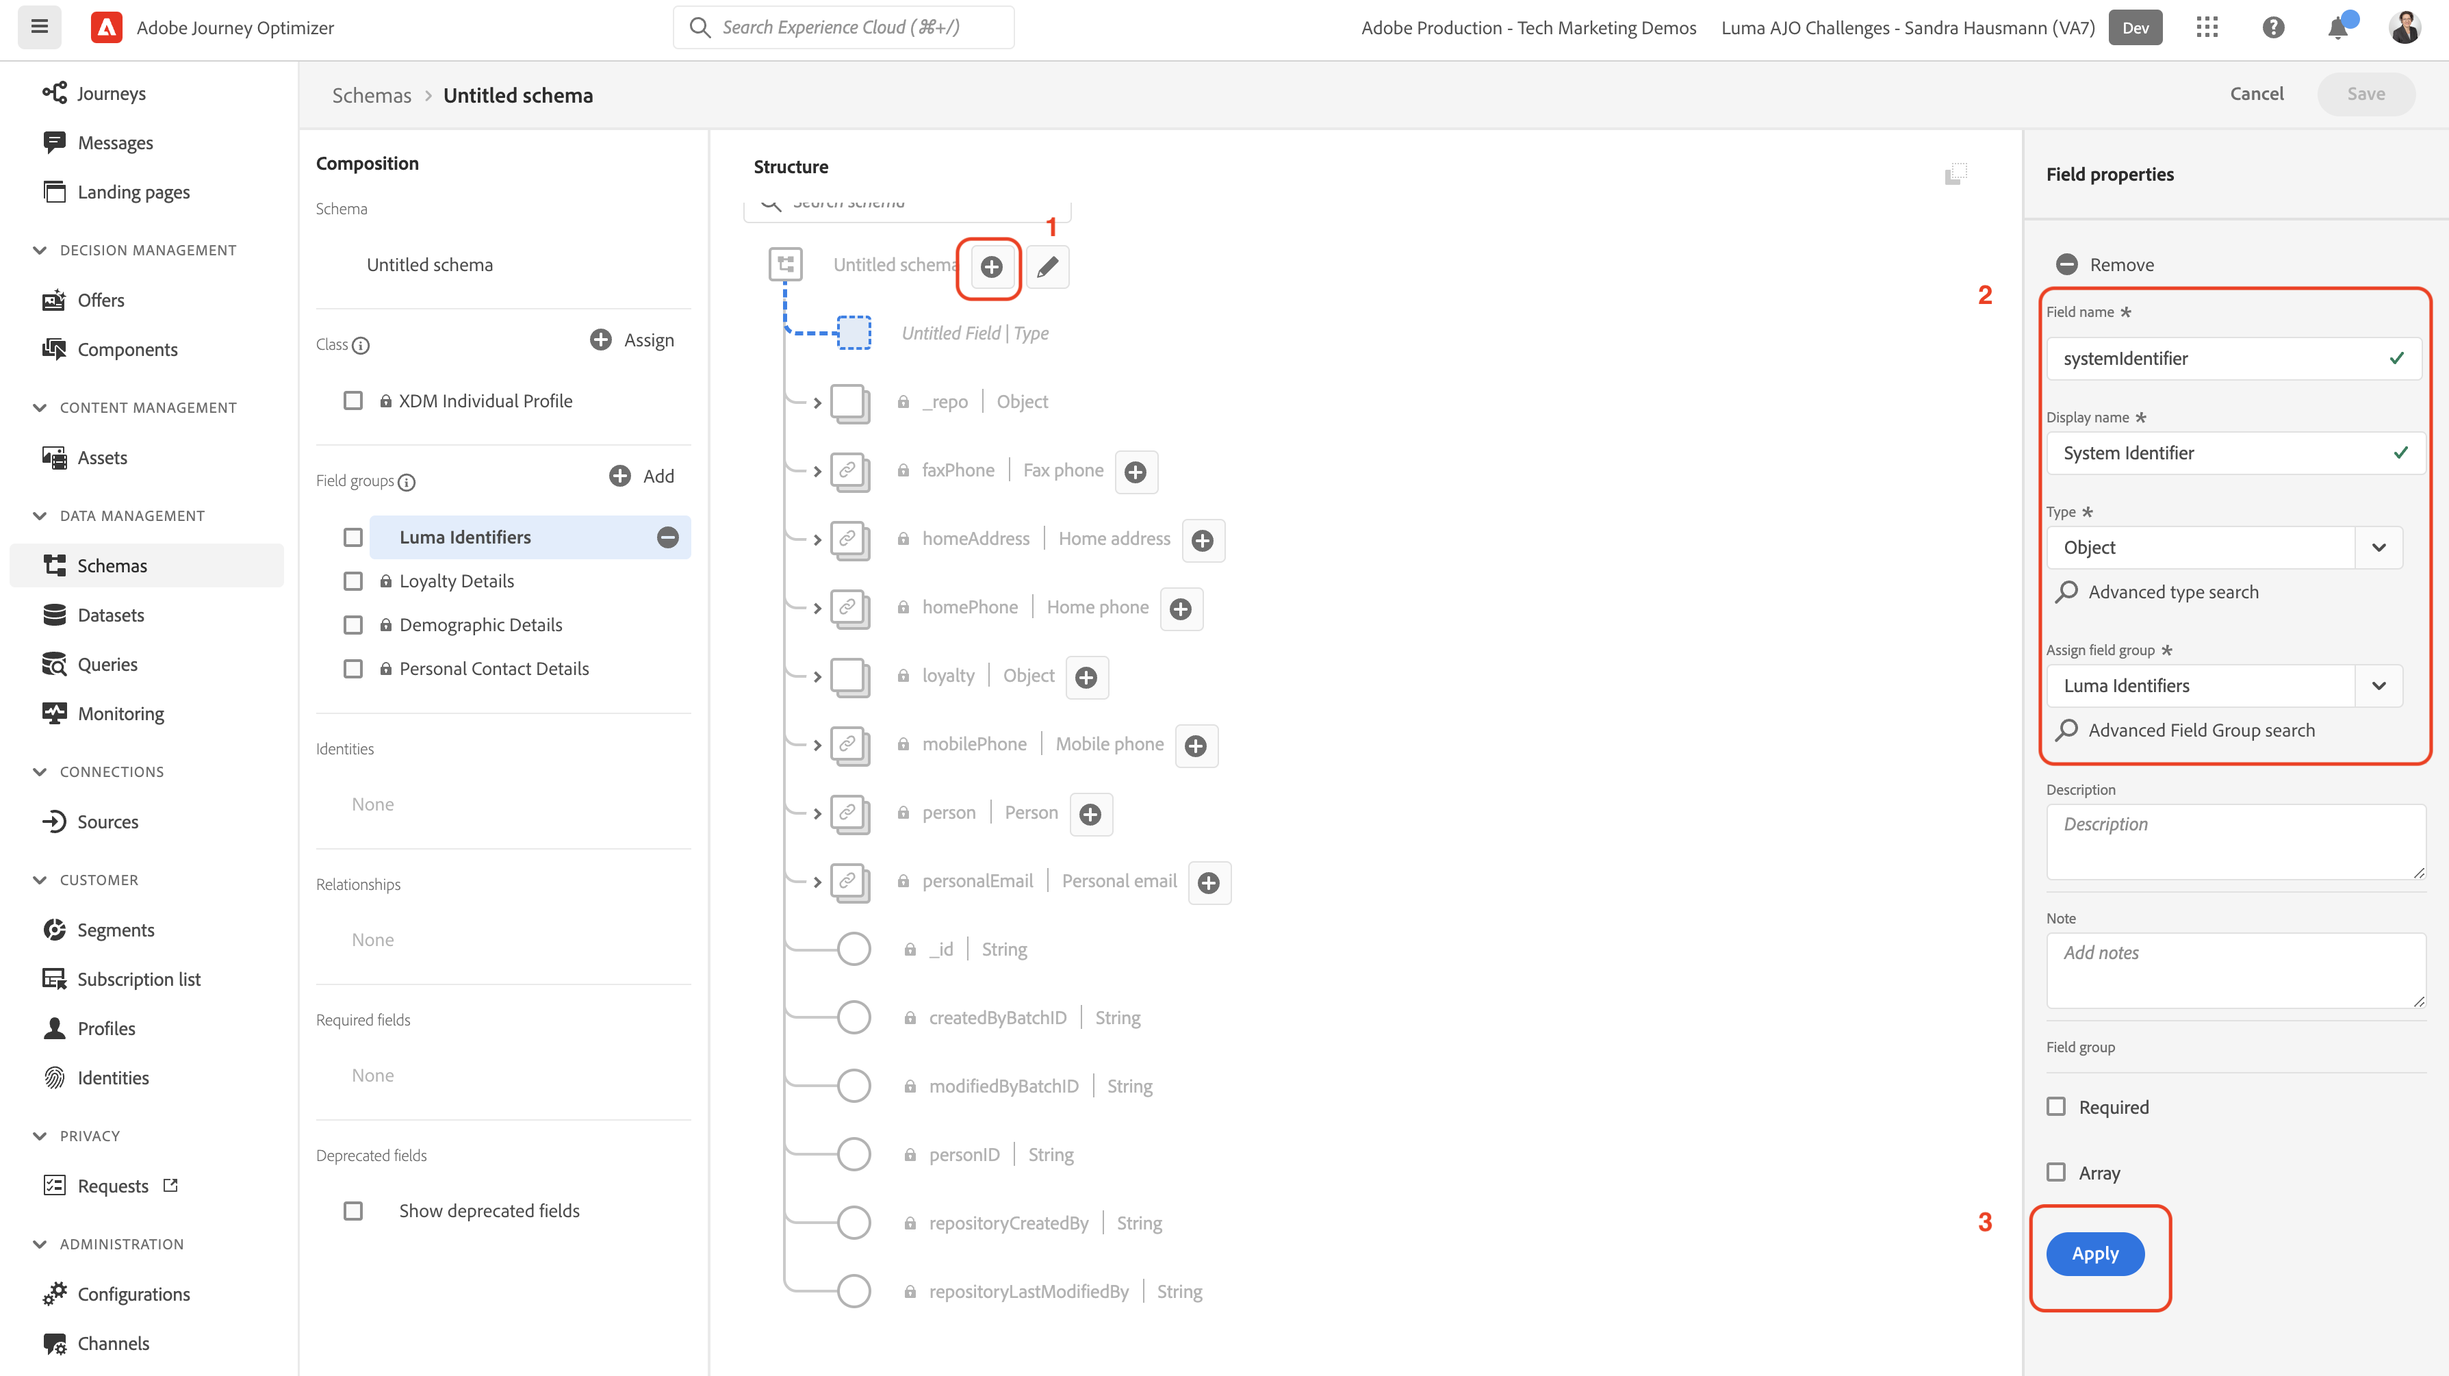
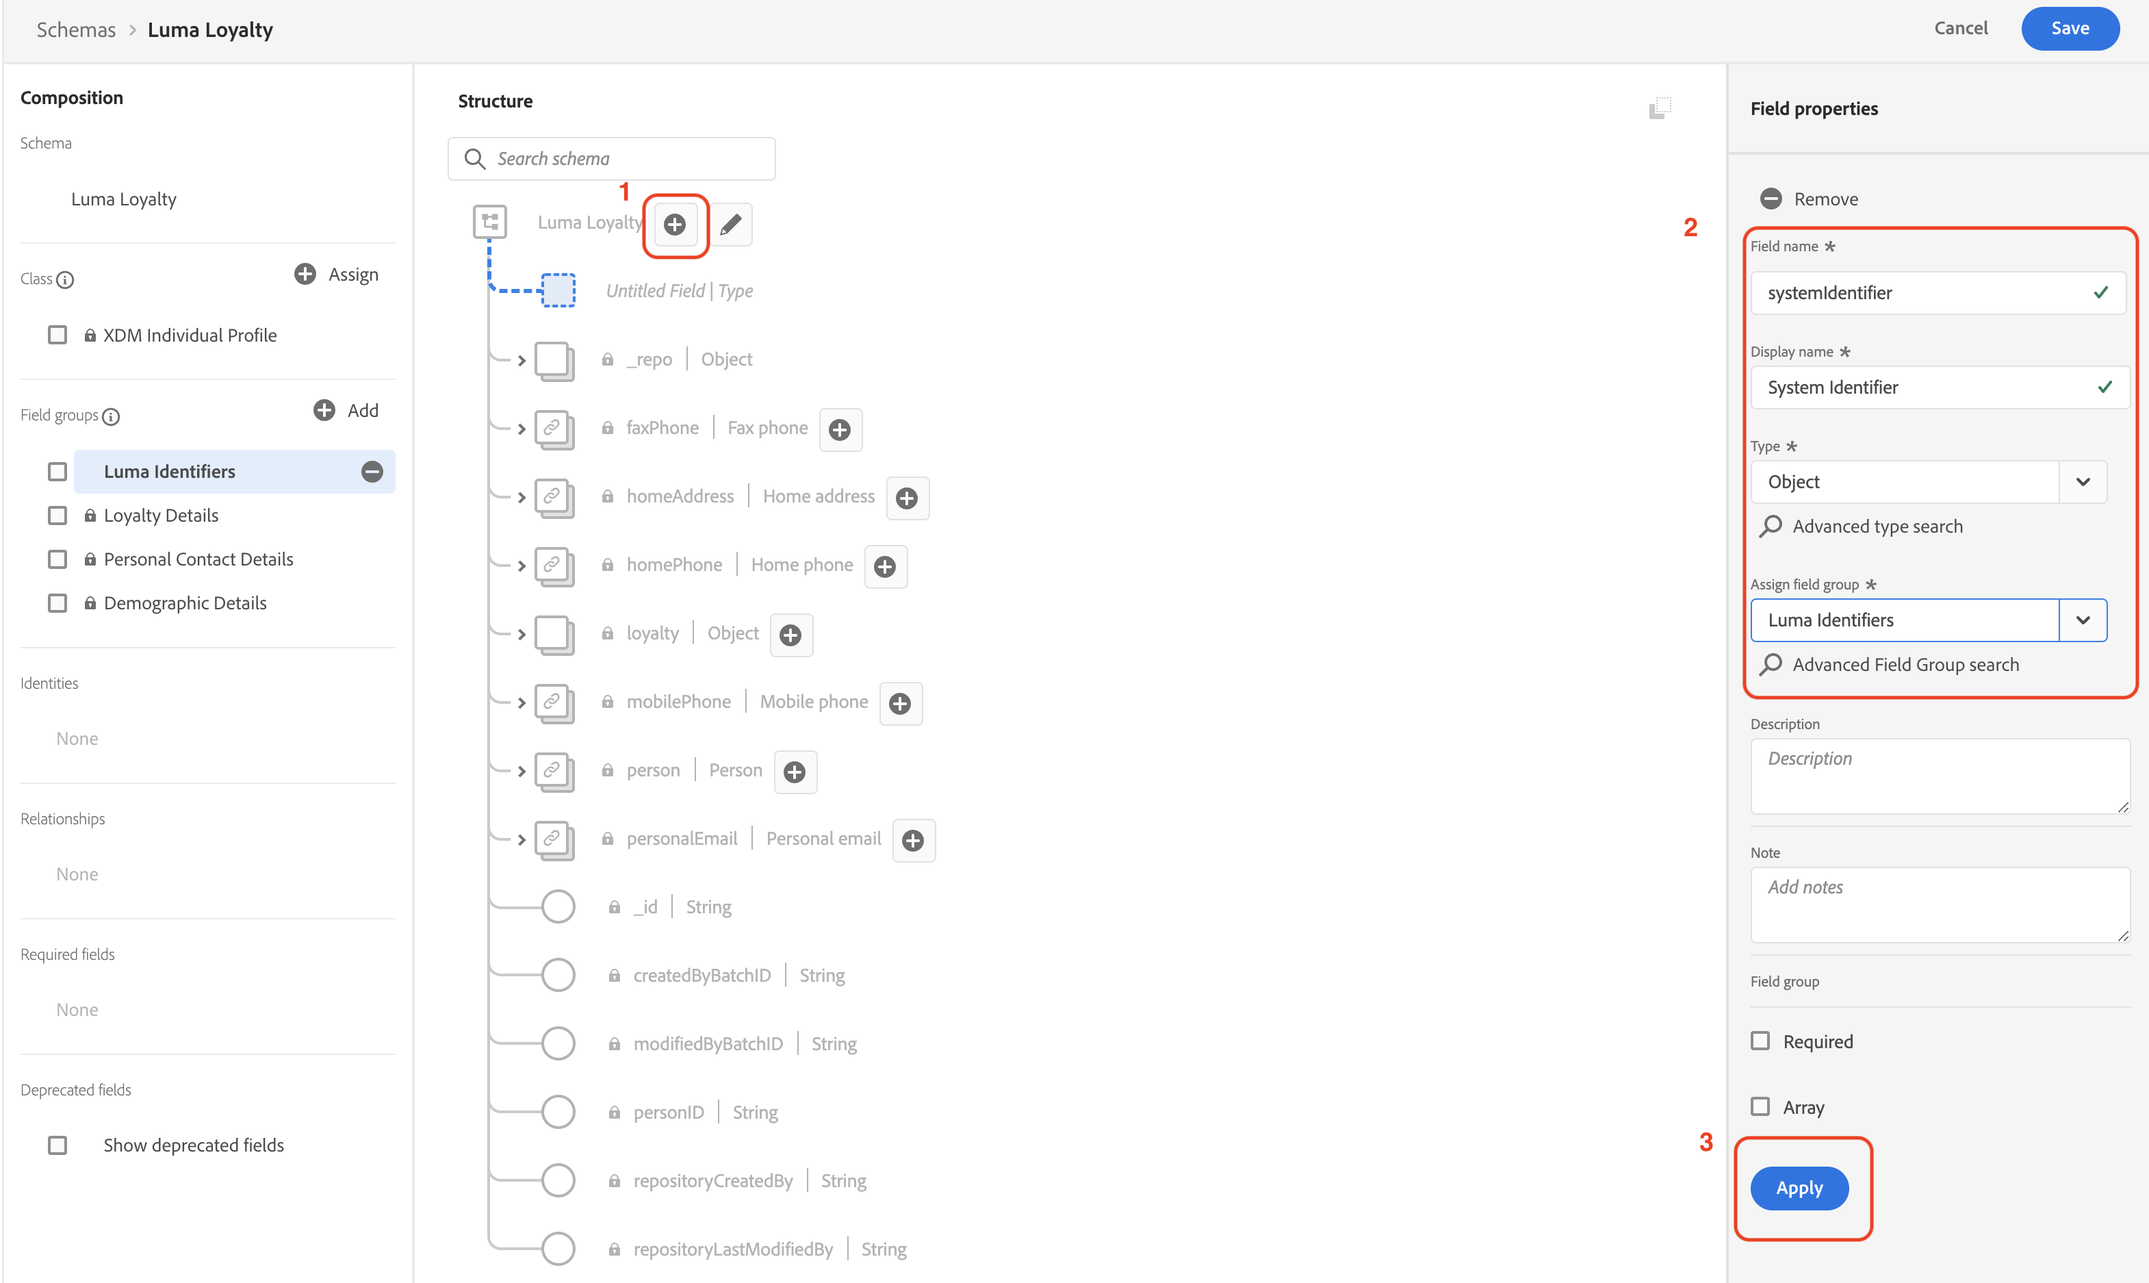
Updates

diff --git a/help/tutorial-configure-a-training-sandbox/manual-data-set-up.md b/help/tutorial-configure-a-training-sandbox/manual-data-set-up.md
@@ -10,7 +10,7 @@ level: Beginner
 
 # Manual Data set-up
 
-This section guides you through the manual data management configuration:
+This section guides you through the manual data management configuration and the data ingestion:
 
 1. Create namespaces
 2. Define the required structure of the data by creating the [[!UICONTROL schemas]](https://experienceleague.adobe.com/docs/experience-platform/xdm/schema/composition.html)
@@ -37,11 +37,10 @@ Let's start by creating a namespace for the Luma Loyalty Schema:
 
     ![Create Namespaces](assets/createNamespace.png)
 
-Now create the following three namespaces following the same steps:
+Now create two more namespaces following the same steps:
 
 | Display Name | Identity Symbol | Type |
 |---|---|---|
-| Luma Loyalty ID | lumaLoyalty | Cross-device ID |
 | Luma CRM ID | lumaCRM | Cross-device ID |
 | Luma Product SKU | lumaProduct | Non-people identifier |
 
@@ -64,139 +63,105 @@ Let's start by creating the [!DNL Luma Loyalty] schema:
 
   ![Create schema](assets/loyaltyCreateSchema.png)
 
-### Add field groups
+#### Add existing field groups
 
 Next you will be prompted to add field groups to the schema. All fields must be added to schemas using groups. You will be adding existing field groups and you will also need to create a new field group.
 
-1. Add existing field groups
+>![NOTE]
+>If you aren't prompted before the schema's detail page opens, select **[!UICONTROL Add]** under the **[!UICONTROL Schema Field Groups]** heading.
+>
+>![Add field group](assets/add_field_group.png)
 
-   1. If you aren't prompted and directy direceted to the schema page, select **[!UICONTROL Add]** under the **[!UICONTROL Schema Field Groups]** heading
+1. In the **[!UICONTROL Add Field groups]** modal, select following field groups:
 
-      ![Add field group](assets/add_field_group.png)
+   a. **[!UICONTROL Demographic Details]** for basic customer data like name and birthdate
+   b. **[!UICONTROL Personal Contact Details]** for basic contact details like email address and phone number
+   c.  **[!UICONTROL Loyalty Details]** for the loyalty details such as points, joind date, or status. The loyalty field group is far down the list, so it is easiest to search for it.
+  
+2. Select **[!UICONTROL Add field group]** to add all three field groups to the schema.
 
-   1. In the **[!UICONTROL Add Field groups]** modal, select following field groups:
-      * **[!UICONTROL Demographic Details]** for basic customer data like name and birthdate
-      * **[!UICONTROL Personal Contact Details]** for basic contact details like email address and phone number
-      * **[!UICONTROL Loyalty Details]** for the loyalty details such as points, joind date, or status. The loyalty field group is far down the list, so it is easiest to search for it.
-   1. Select **[!UICONTROL Add field group]** to add all three field groups to the schema.
+   ![Select standard field groups](assets/addstandardFieldGroups.png)
+
+3. Select the top node of the schema
+2. Enter `Luma Loyalty` as the [!UICONTROL Display name]
+
+
+#### Create a new [!UICONTROL field group]
+
+To help ensure consistency across the schemas,we will manage all system identifiers in a single group:
+
+1. From the middle [!UICONTROL Compostion] section, under [!UICONTROL Field groups], select **[!UICONTROL Add]**
+2. Select **[!UICONTROL Create new field group]**
+3. Use `Luma Identifiers` as the **[!UICONTROL Display name]**
+4. Use `system identifiers for XDM Individual Profile class` as the **[!UICONTROL Description]**
+5. Select **[!UICONTROL Add field groups]**
+
+![Create new field group](assets/addnewfieldgroup.png)
+
+#### Add fields to a [!UICONTROL field group]
+
+The new, empty field group is added to your schema. With the + buttons you can add new fields to any location in the hierarchy. In our case we want to add fields at the root level:
    
-      ![Select standard field groups](assets/addstandardFieldGroups.png)
-
-1.  Create a **new [!UICONTROL field group]**
-To help ensure consistency across the schemas,we will manage all system identifiers in a single group.
-    1. From the middle [!UICONTROL Compostion] section, under [!UICONTROL Field groups], select **[!UICONTROL Add]**
-    2. Select **[!UICONTROL Create new field group]**
-    3. Use `Luma Identifiers` as the **[!UICONTROL Display name]**
-    4. Use `system identifiers for XDM Individual Profile class` as the **[!UICONTROL Description]**
-    5. Select **[!UICONTROL Add field groups]**
-      ![Create new field group](assets/addnewfieldgroup.png)
-
- 1. Add fields to the **new [!UICONTROL field group]**
-   The new, empty field group is added to your schema. With the + buttons you can add new fields to any location in the hierarchy. In our case we want to add fields at the root level:
-   1. Select **[!UICONTROL +]** next to the name of the schema. This adds a new field  under your tenant id namespace to manage conflicts between your custom fields and any standard fields.
-   2. In the **[!UICONTROL Field properties]** sidebar add the details of the new field:
-
--------------
----------------
-      * [!UICONTROL Field name]: `systemIdentifier`
+1. Select **[!UICONTROL +]** next to the name of the schema. This adds a new field  under your tenant id namespace to manage conflicts between your custom fields and any standard fields.
+2. In the **[!UICONTROL Field properties]** sidebar add the details of the new field
+     
+      * Field name: `systemIdentifier`
       * [!UICONTROL Display name]: `System Identifier`
-      * [!UICONTROL Type]: `Object`
-      * [!UICONTROL Assign field group]: `Luma identifiers`
-   3. Select **[!UICONTROL Apply]**
+      * Type: Object
+      * [!UICONTROL Assign field group]: [!DNL Luma identifiers]
+3. Select **[!UICONTROL Apply]**
 
-      ![Add System Identifier](assets/addsysteidentifier.png)
+   ![Add System Identifier](assets/addsysteidentifier.png)
 
 Now add two fields under the `systemIdentifier` object:
 
    [!UICONTROL Fieldname] |[!UICONTROL Display Name]|[!UICONTROL Type]|
-   |---------------------- |---------------------------|---------------------|
-   | [!DNL Loyalty ID]      |[!DNL loyaltyId]         |[!UICONTROL String]|
-   | [!DNL crmId]|[!DNL CRM Id] |[!UICONTROL String]|
+   |-------------|-----------|----------|
+   | `loyaltyId`|`Loyalty ID`|[!UICONTROL String]|
+   | `crmId`| `CRM Id`|[!UICONTROL String]|
 
-   ![fields](./assets/fields.png)
+![fields](./assets/add_fields.png)
 
-   1. First field
-      1. **[!UICONTROL Field name]**: `loyaltyId`
-      2. **[!UICONTROL Display name:]** `Loyalty Id`
-      3. **[!UICONTROL Type]**: **[!UICONTROL String]**
-   2. Second field
-      1. **[!UICONTROL Field Name]**: `crmId`
-      2. **[!UICONTROL Display Name]**: `CRM Id`
-      3. **[!UICONTROL Type]**: **[!UICONTROL String]**
+#### Set identities
 
+We have the namespace and the Luma Loyalty schema configures. Before we can ingest data, we is to label the identity fields. Each schema used with Real-time Customer Profile is required to have a primary identity specified. And each record ingested must have a value for that field.
 
+1. Set the **primary Identity:**
+   From the `Luma Loyalty` schema
+   1. Select the `Luma Identifiers` field group
+   2. Select the `loyaltyId` field
+   3. In the **[!UICONTROL Field properties]**, check the **[!UICONTROL Identity]** box
+   4. Check the **[!UICONTROL Primary Identity]** box, too
+   5. Select the `Luma Loyalty Id` namespace from **[!UICONTROL Identity namespaces]** dropdown
+   6. Select **[!UICONTROL Apply]**
 
+      ![primary identity](/help/tutorial-configure-a-training-sandbox/assets/primary_identity.png)
 
-
-
-
-
-----------
-1.  Set identities
-   1. Set **[!DNL LoyaltyID]** field as primary identity using **[!DNL Luma Loyalty ID]** [!UICONTROL Identity namespace]: [! DNL Loyalty ID] > [!UICONTROL Field properties] > [!UICONTROL Identity]: 
-        ![primary identity](/help/tutorial-configure-a-training-sandbox/assets/primary_identity.png)
-   2. Set [!DNL CRM ID] field as an identity using **[!DNL Luma CRM ID]** [!UICONTROL Identity namespace]
-         ![identity](/help/tutorial-configure-a-training-sandbox/assets/identity.png)
-2.  Enable the [!DNL Luma Loyalty] schema for [!UICONTROL Profile]
-
-   ![Enable Luma Loyalty schema for Profile](./assets/enable_the_luma_loyalty_schema_for_profile.jpg)
-13. Add the display name: **[!DNL Luma Loyalty]**
-14. Save
-
-Next, create the fours additional [!UICONTROL schemas]:
-
-
-
-
-### Create [!UICONTROL Datasets]
-
-In this step you will create five [!UICONTROL datasets] based on the [!UICONTROL schemas] you created in the previous step. Once the datasets have been created you will ingest data from the JSON files you downloaded and modified (see [Introduction and pre-requisites](/help/tutorial-configure-a-training-sandbox/introduction-and-pre-requisites.md) section for instructions).
-
-> [!TIP]
-> For more guidance on how to create [!UICONTROL datasets], watch the video tutorial: [Create datasets and ingest data](/help/set-up-data/create-datasets-and-ingest-data.md).
-
-Follow the step by step instructions to create the first [!UICONTROL schema]: 
-
-1. Create a dataset named *[!DNL Luma Loyalty Data]* from [!DNL Luma Loyalty schema]
-   * From the left naviagtion select [!UICONTROL Datasets] > [!UICONTROL Create dataset] > [!UICONTROL Create dataset from schema]
-   * Select *[!DNLLuma Loyalty]*
-   * Click [!UICONTROL Next]
-   * Name: [!DNL Luma Loyalty Data]
-   * Click [!UICONTROL Finish]
+2. Set a **secondary identity:**
+From the `Luma Loyalty` schema
+    1. Select the `Luma Identifiers` field group
+    2. Select the `crmId` field
+    3. In the **[!UICONTROL Field properties]**, check the **[!UICONTROL Identity]** box
+    4. Select the `Luma CRM Id` namespace from **[!UICONTROL Identity namespaces]** dropdown
+    5. Select **[!UICONTROL Apply]**
   
-2. Once the [!UICONTROL dataset], is created, scroll down in the right panel, enable [!UICONTROL Error diagnostics] and [!UICONTROL partial ingestion], and drag and drop the *[!DNL luma-loyalty.json]* file to upload sample data to the dataset
-3. Check the batch status to confirm the file ingested correctly. It might take a couple of minutes for the data to be ingested - 375 records should have been ingested.
 
-Next, create the fours additional [!UICONTROL datasets]:
 
-| Dataset Name                         | From Schema                         | File to ingest              | Records |
-| -------------------------------------| ----------------------------------- | ----------------------------| ------- |
-| *[!DNL Luma Loyalty Data]* (done)    | *[!DNL Luma Loyalty schema]*        |  *[!DNL luma-loyalty.json]* | 375     |
-| [!DNL Luma CRM Data]                 | [!DNL Luma CRM schema]              | [!DNL luma-crm.json]        | 500     |
-| [!DNL Luma Products Data]            | [!DNL Luma Products]                |  [!DNL luma-products.json]  | 92      |
-| [!DNL Luma Product Interactions Data]| [!DNL Luma Product Interactions]    |   [!DNL luma-crm.json]      | 500     |
-| [!DNL Luma Product Inventory Events] | [!DNL Luma Product Inventory Events]|  [!DNL luma-crm.json]       | 500     |
+#### Enable for profile and save
 
-#### Schemas
+1. Select the top node of the schema
+2. In the (!UICONTROL Field properties) enable [!UICONTROL Profile]
 
-**Schema:*[!DNL Luma CRM]***
+This is what the schema should look like:
 
-1. Add the following existing field groups:
-* [!DNL Luma Identifiers]
-* [!UICONTROL Demographic Details]
-* [!UICONTROL Personal Contact Details]
+![Luma Loyalty schema](assets/lumaloyaltyschema.png)
 
-2. Set identities:
-* [!UICONTROL Primary indentity]:
-   * [!DNL Luma Identifiers]: *[!DNL CRM ID]*, using *[!DNL Luma CRM ID]* namespace
-* [!UICONTROL Indentity (not primary!)]
-  *  [!UICONTROL Personal Contact Details]:
-   * *[!DNL mobilePhone.number]*
-      [!UICONTROL Identity namespace]: [!UICONTROL Phone]
-   * *[!DNL personalEmail.address]* 
-      [!UICONTROL Identity namespace]:[!UICONTROL Phone]
-3. Enable the [!DNL XDM Profile] schema for Profile
+3. Select **[!UICONTROL Save]**
 
+Next, create the following fours additional [!UICONTROL schemas]:
+
+
+-----
 
 
 ### Luma Products
@@ -271,3 +236,57 @@ Next, create the fours additional [!UICONTROL datasets]:
    * [!UICONTROL Datasets] > [!UICONTROL Create dataset] > [!UICONTROL Create dataset from schema]
 2. Once the dataset is created, scroll down in the right panel, enable [!UICONTROL error logs] and [!UICONTROL partial ingestion], and drag and drop the *[!DNL luma-crm.json]* file to upload sample data to the dataset
 3. Check the [!UICONTROL batch status] to confirm the file ingested correctly - 500 records should have been ingested.
+
+
+
+### Create [!UICONTROL Datasets]
+
+In this step you will create five [!UICONTROL datasets] based on the [!UICONTROL schemas] you created in the previous step. Once the datasets have been created you will ingest data from the JSON files you downloaded and modified (see [Introduction and pre-requisites](/help/tutorial-configure-a-training-sandbox/introduction-and-pre-requisites.md) section for instructions).
+
+> [!TIP]
+> For more guidance on how to create [!UICONTROL datasets], watch the video tutorial: [Create datasets and ingest data](/help/set-up-data/create-datasets-and-ingest-data.md).
+
+Follow the step by step instructions to create the first [!UICONTROL schema]: 
+
+1. Create a dataset named *[!DNL Luma Loyalty Data]* from [!DNL Luma Loyalty schema]
+   * From the left navigation select [!UICONTROL Datasets] > [!UICONTROL Create dataset] > [!UICONTROL Create dataset from schema]
+   * Select *[!DNLLuma Loyalty]*
+   * Click [!UICONTROL Next]
+   * Name: [!DNL Luma Loyalty Data]
+   * Click [!UICONTROL Finish]
+  
+2. Once the [!UICONTROL dataset], is created, scroll down in the right panel, enable [!UICONTROL Error diagnostics] and [!UICONTROL partial ingestion], and drag and drop the *[!DNL luma-loyalty.json]* file to upload sample data to the dataset
+3. Check the batch status to confirm the file ingested correctly. It might take a couple of minutes for the data to be ingested - 375 records should have been ingested.
+
+Next, create the fours additional [!UICONTROL datasets]:
+
+| Dataset Name                         | From Schema                         | File to ingest              | Records |
+| -------------------------------------| ----------------------------------- | ----------------------------| ------- |
+| *[!DNL Luma Loyalty Data]* (done)    | *[!DNL Luma Loyalty schema]*        |  *[!DNL luma-loyalty.json]* | 375     |
+| [!DNL Luma CRM Data]                 | [!DNL Luma CRM schema]              | [!DNL luma-crm.json]        | 500     |
+| [!DNL Luma Products Data]            | [!DNL Luma Products]                |  [!DNL luma-products.json]  | 92      |
+| [!DNL Luma Product Interactions Data]| [!DNL Luma Product Interactions]    |   [!DNL luma-crm.json]      | 500     |
+| [!DNL Luma Product Inventory Events] | [!DNL Luma Product Inventory Events]|  [!DNL luma-crm.json]       | 500     |
+
+#### Schemas
+
+**Schema:*[!DNL Luma CRM]***
+
+1. Add the following existing field groups:
+* [!DNL Luma Identifiers]
+* [!UICONTROL Demographic Details]
+* [!UICONTROL Personal Contact Details]
+
+2. Set identities:
+* [!UICONTROL Primary indentity]:
+   * [!DNL Luma Identifiers]: *[!DNL CRM ID]*, using *[!DNL Luma CRM ID]* namespace
+* [!UICONTROL Indentity (not primary!)]
+  *  [!UICONTROL Personal Contact Details]:
+   * *[!DNL mobilePhone.number]*
+      [!UICONTROL Identity namespace]: [!UICONTROL Phone]
+   * *[!DNL personalEmail.address]* 
+      [!UICONTROL Identity namespace]:[!UICONTROL Phone]
+3. Enable the [!DNL XDM Profile] schema for Profile
+
+
+
